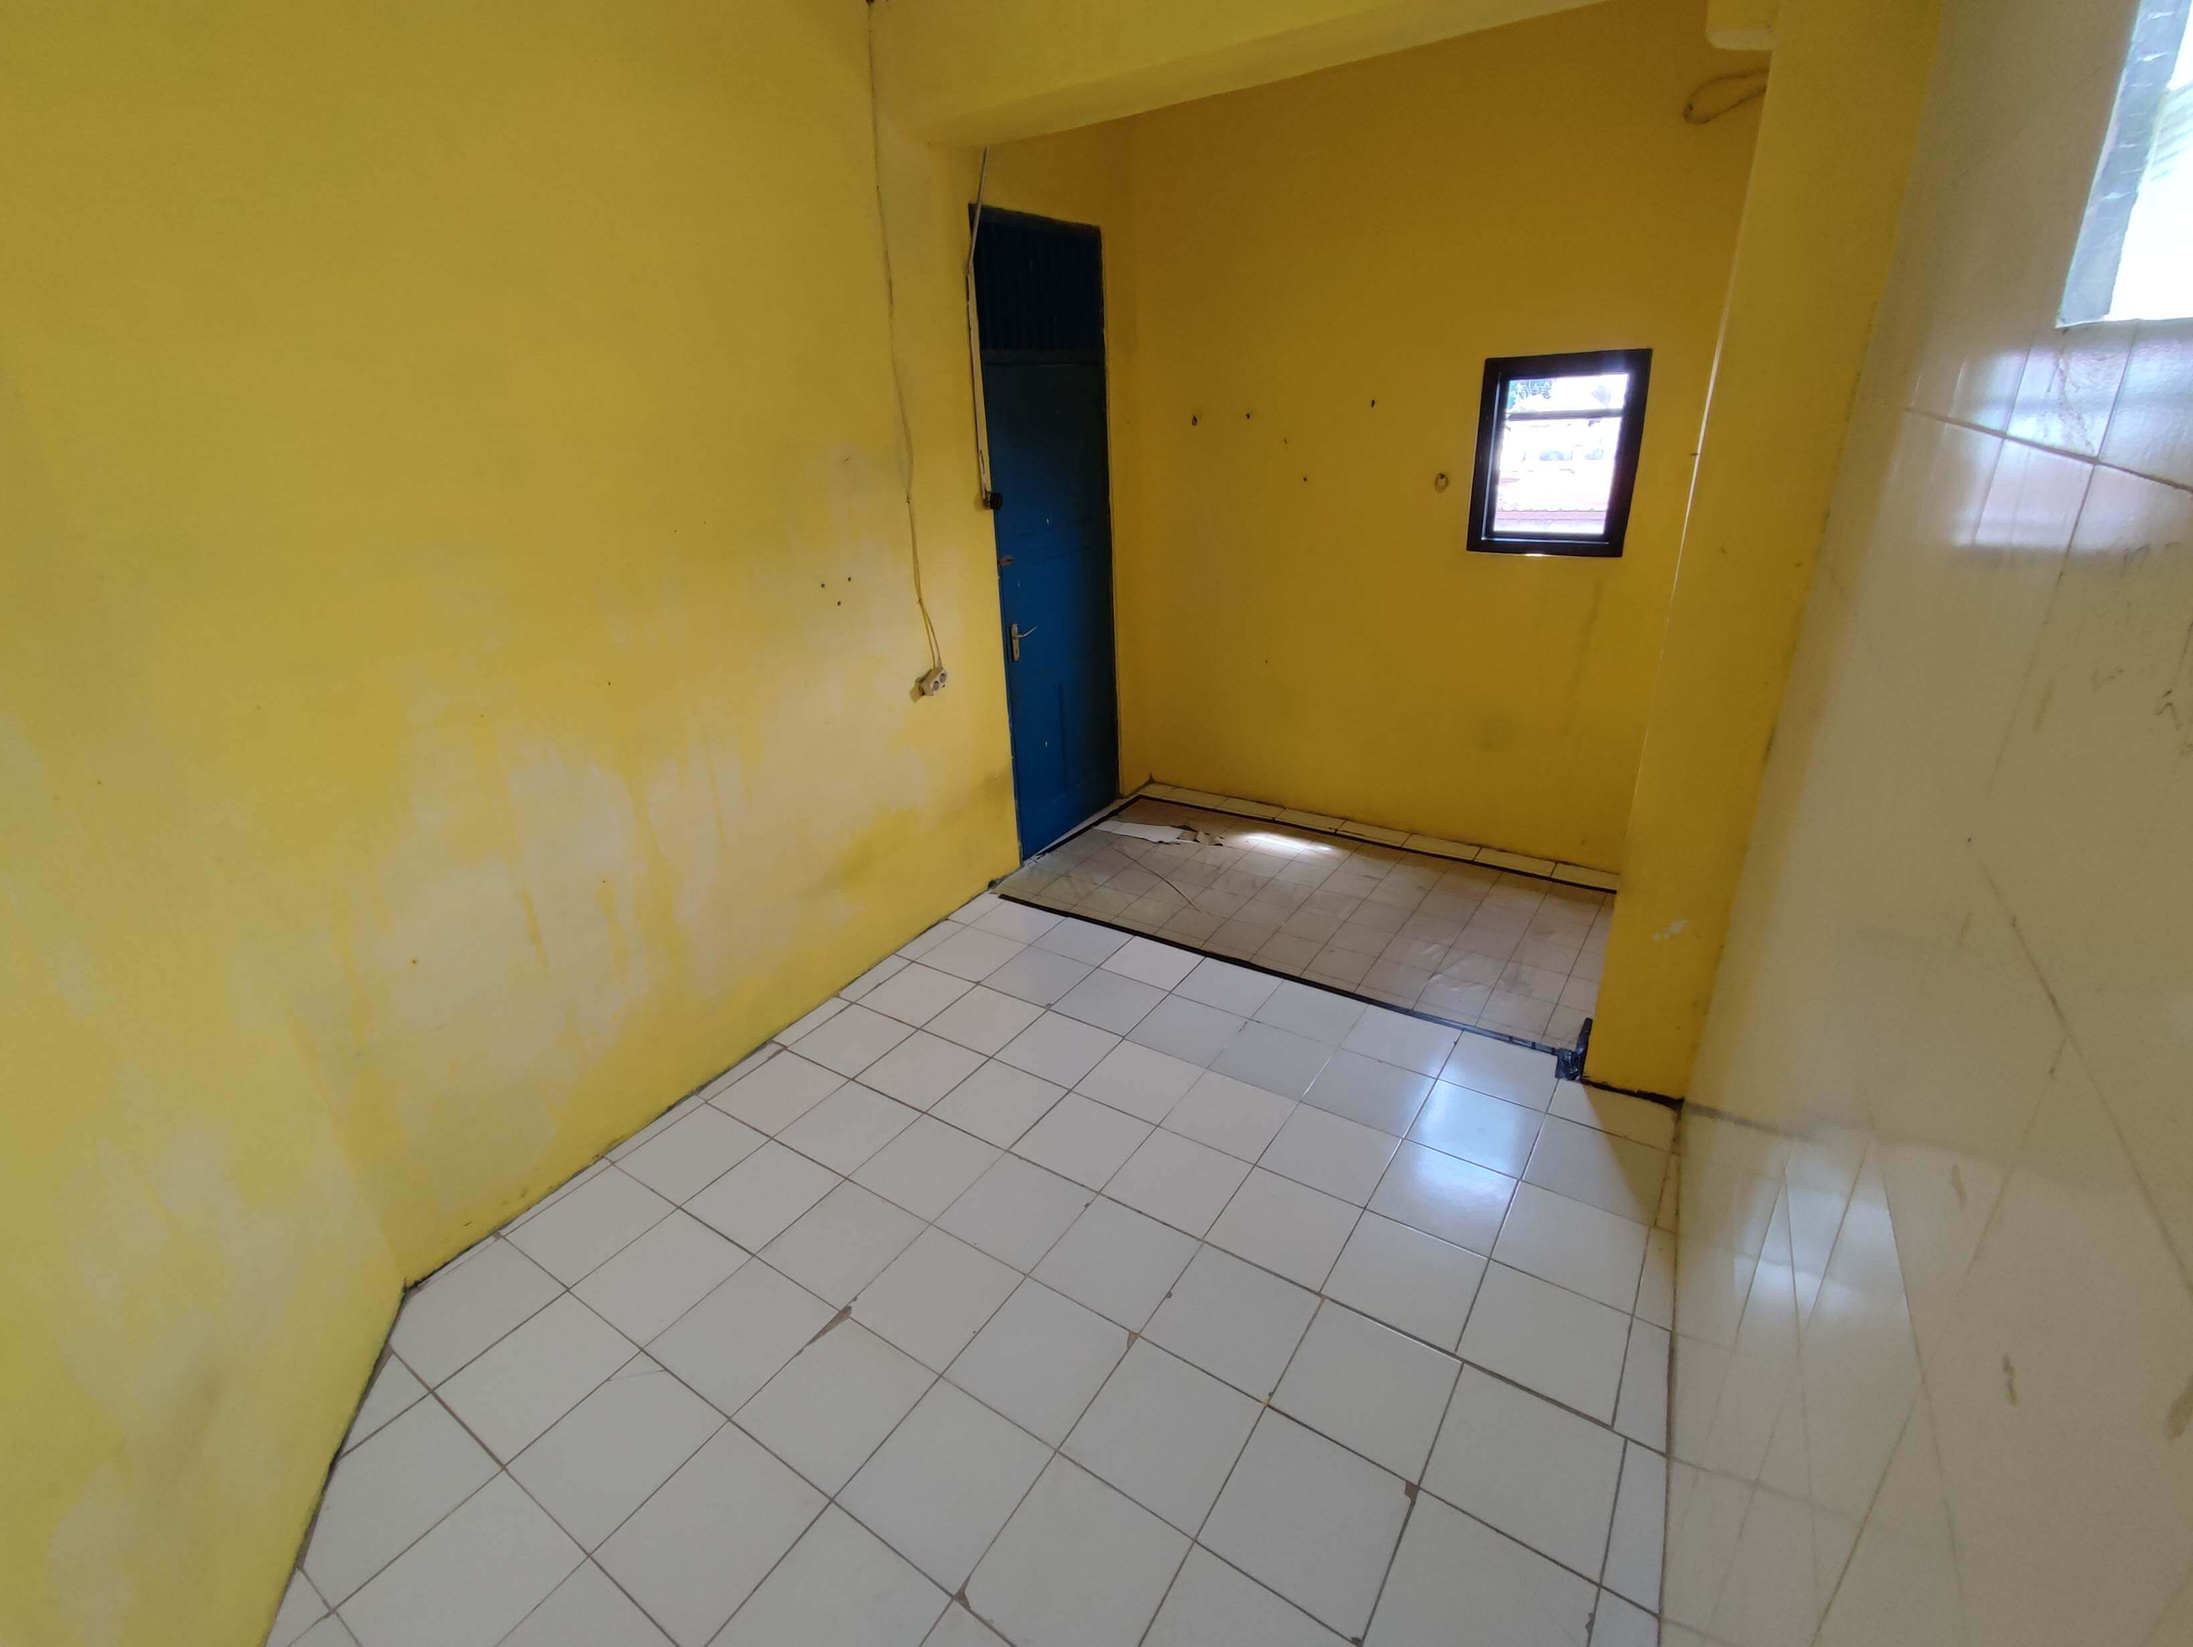
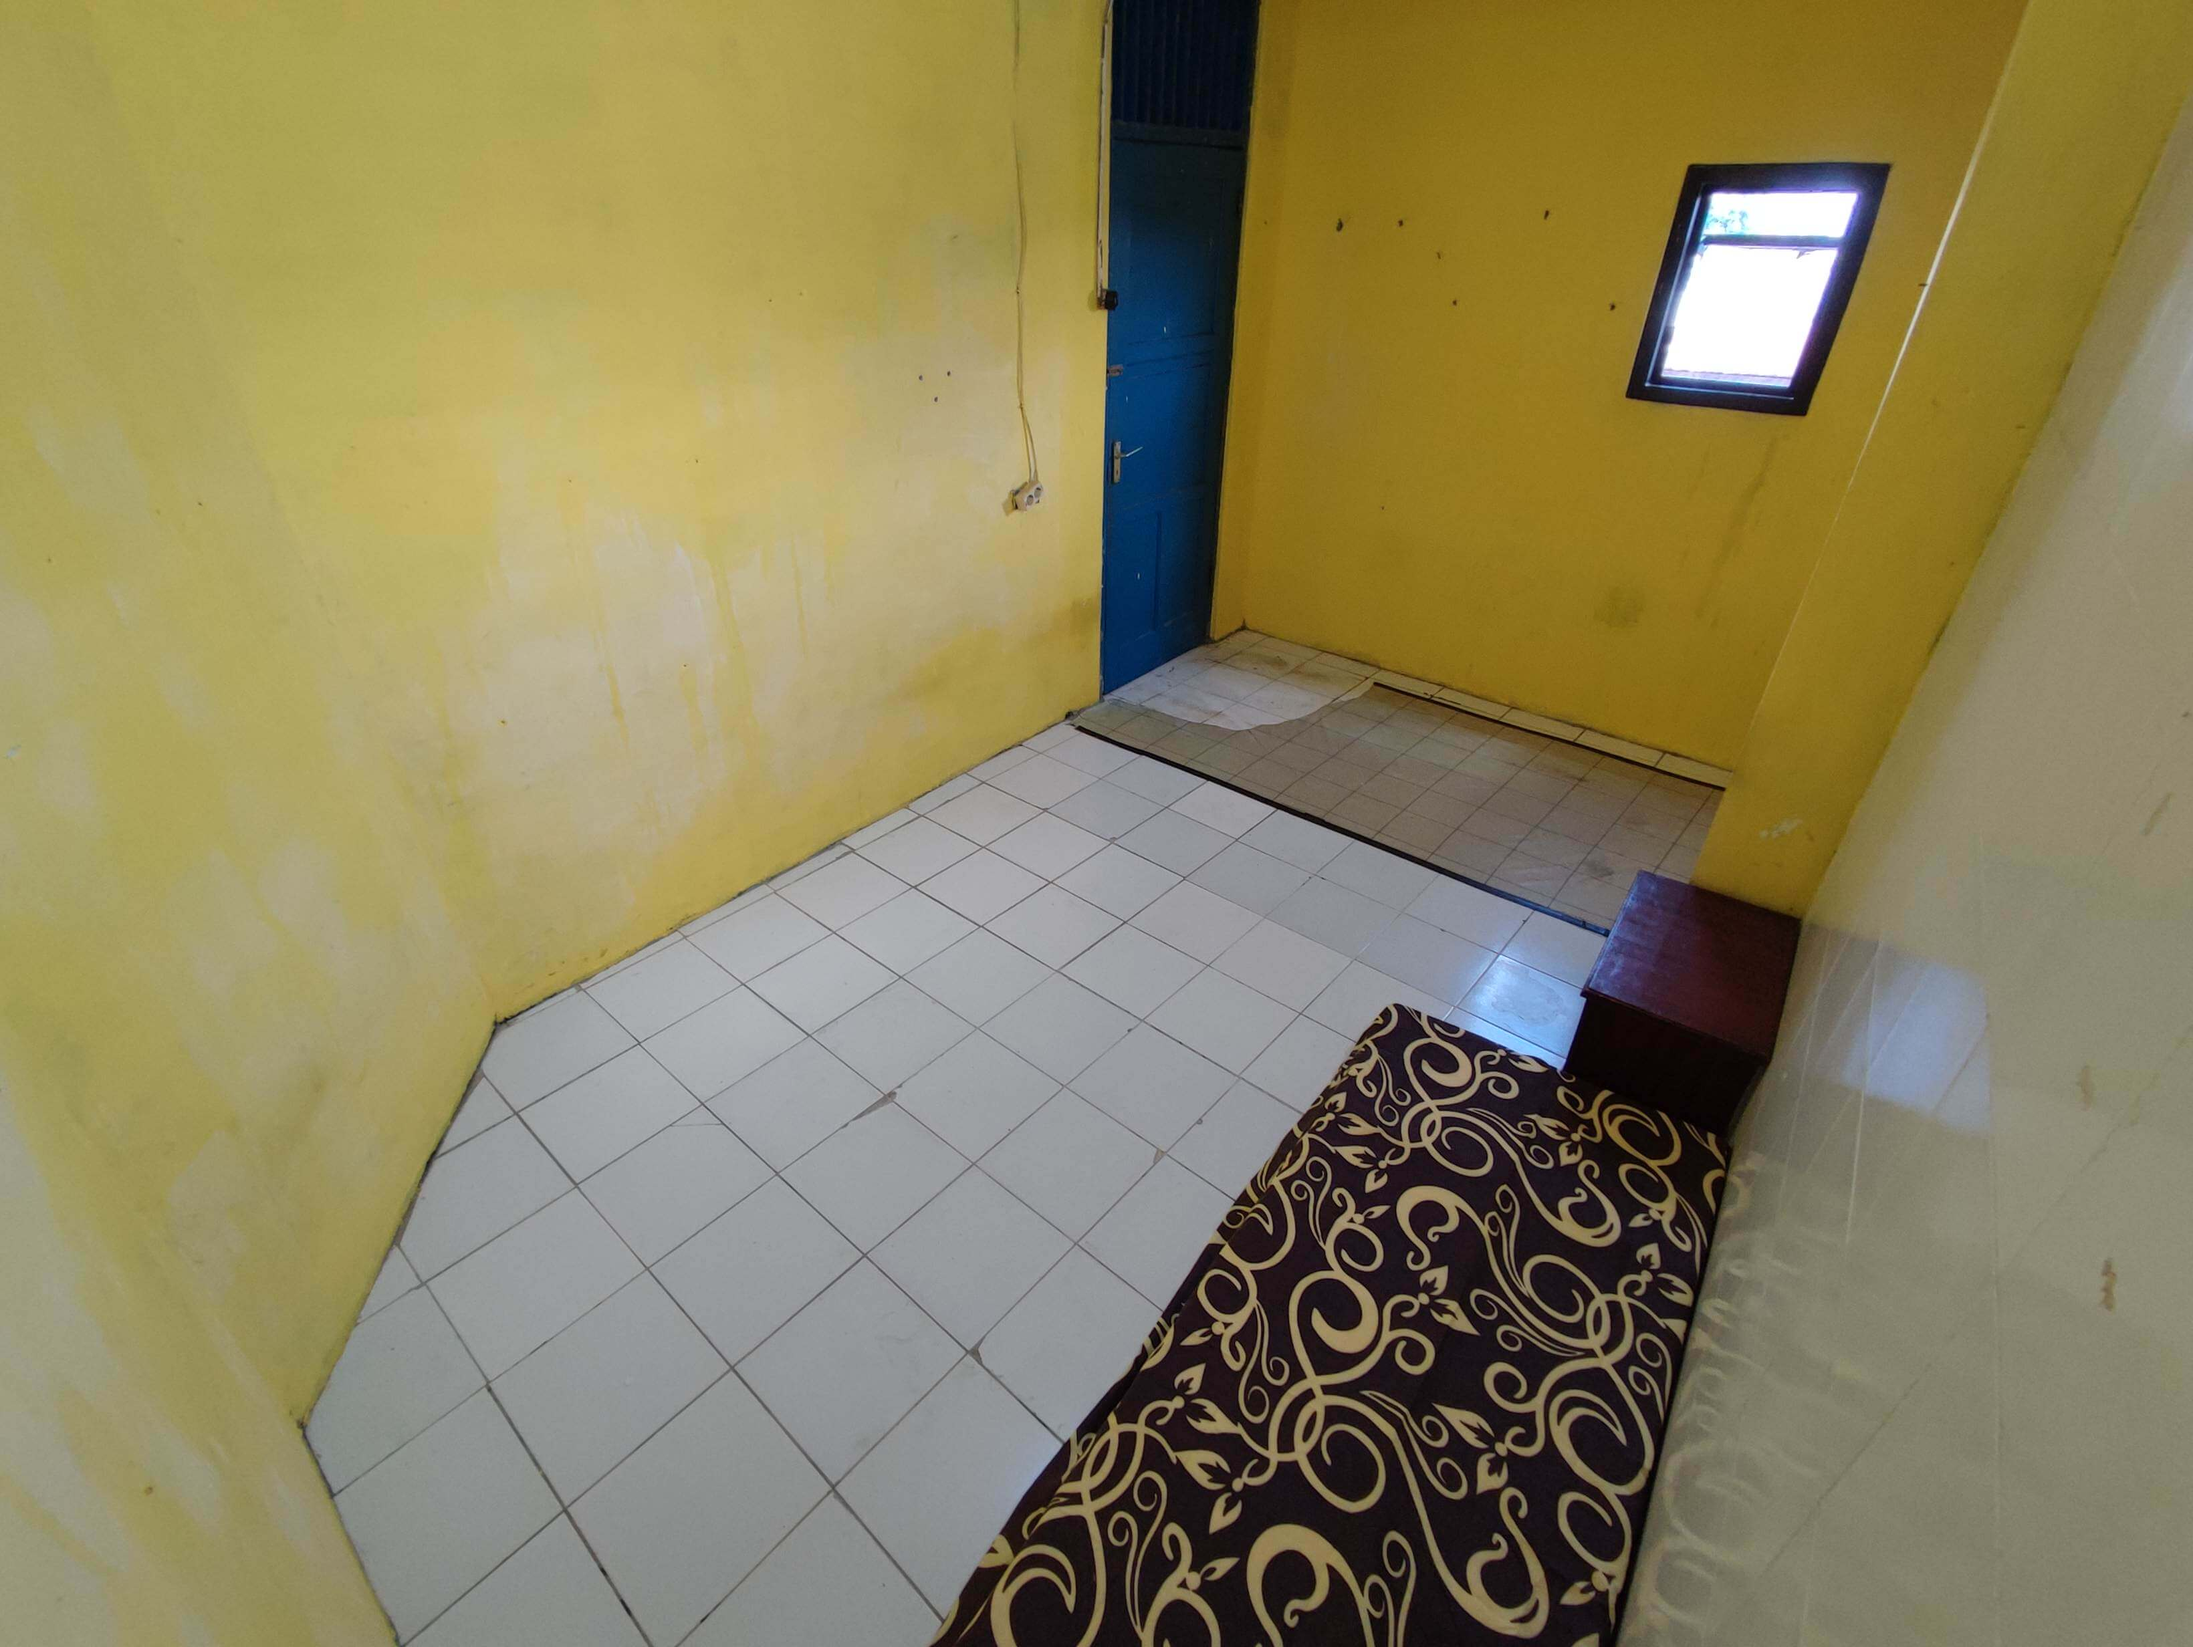
update images AC2 B1 B4

diff --git a/B/1.html b/B/1.html
@@ -23,14 +23,15 @@
         Fasilitas :
         <ul>
             <li>Wireless Internet (WiFi)</li>
+            <li>Kasur</li>
             <li>Listrik Token 1300VA</li>
+            <li>Meja Kecil</li>
             <li>Kamar Mandi Luar</li>
         </ul>
         Ukuran Kamar : ± 2,2 x 4,2 meter
         <br>
     </p>
     <img src="./assets/1_entry.jpg" width="100%" height="auto" max-width="800px">
-    <img src="./assets/1_window.jpg" width="100%" height="auto" max-width="800px">
     <img src="./assets/1_back.jpg" width="100%" height="auto" max-width="800px">
     <div class="whatsapp-float">
         <a href="https://wa.me/6285173374180?text=Apakah%20Kamar%20B1%20masih%20kosong%3F" target="_blank">

diff --git a/B/4.html b/B/4.html
@@ -22,8 +22,10 @@
         Fasilitas :
         <ul>
             <li>Wireless Internet (WiFi)</li>
-            <li>Kamar Mandi Luar</li>
+            <li>Kasur</li>
             <li>Listrik Token 1300VA</li>
+            <li>Meja Kecil</li>
+            <li>Kamar Mandi Luar</li>
         </ul>
         Ukuran Kamar : ± 2,4 x 2,4 meter
         <br>
